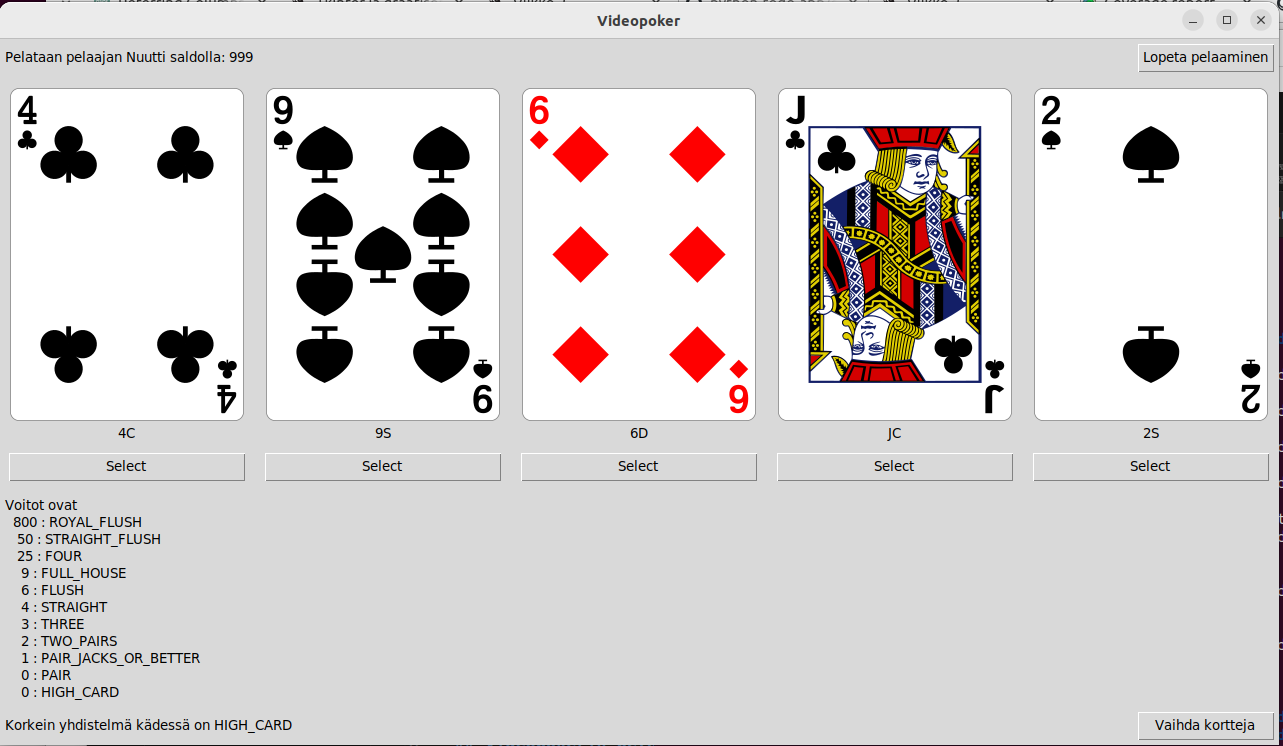
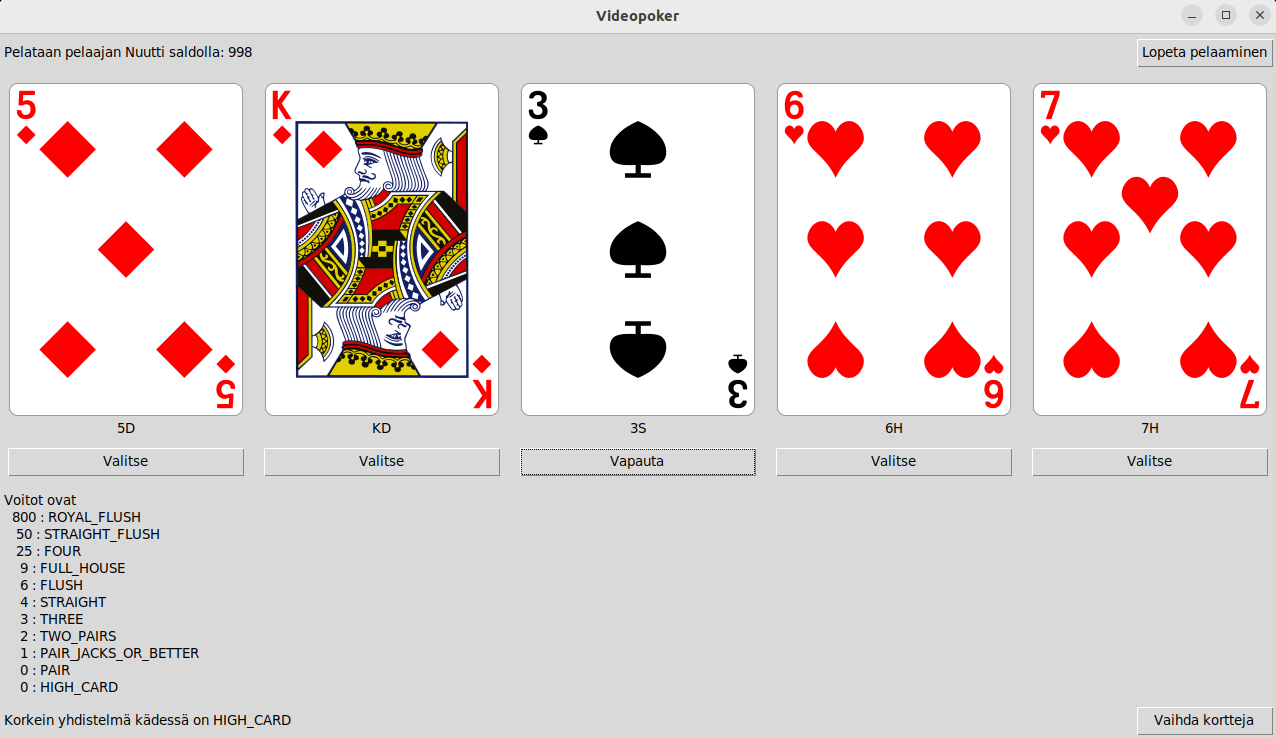
muutama käyttöliittymän tekstibugi

diff --git a/videopoker/src/ui/user_view.py b/videopoker/src/ui/user_view.py
@@ -51,7 +51,7 @@ class UserView:
         self._error_label.grid_remove()
 
     def _initialize_username_field(self):
-        username_label = ttk.Label(master=self._frame, text="User")
+        username_label = ttk.Label(master=self._frame, text="Pelaaja")
 
         self._username_entry = ttk.Entry(master=self._frame)
 

diff --git a/videopoker/src/ui/video_poker_view.py b/videopoker/src/ui/video_poker_view.py
@@ -61,7 +61,7 @@ class VideoPokerHandView:
         if self.__status == STATUS_FIRST_ROUND:
             select_card_button = ttk.Button(
                 master=item_frame,
-                text="Select",
+                text="Valitse",
                 command=lambda: self.handle_press_button(str(card))
             )
 
